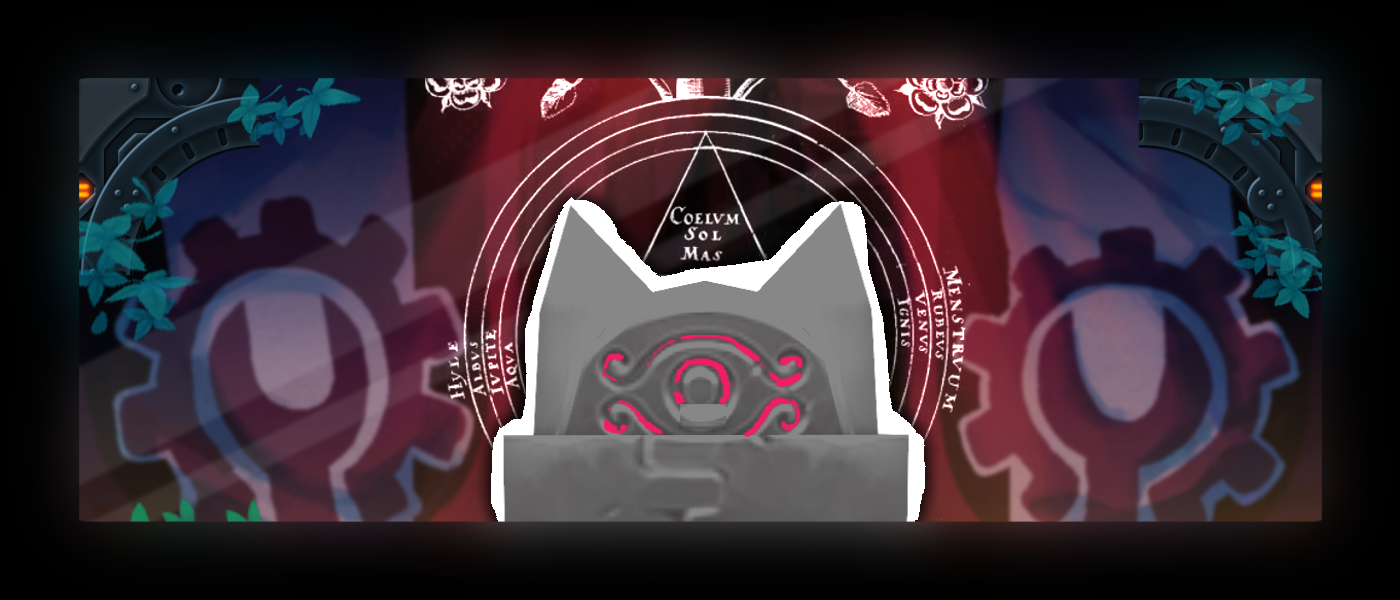
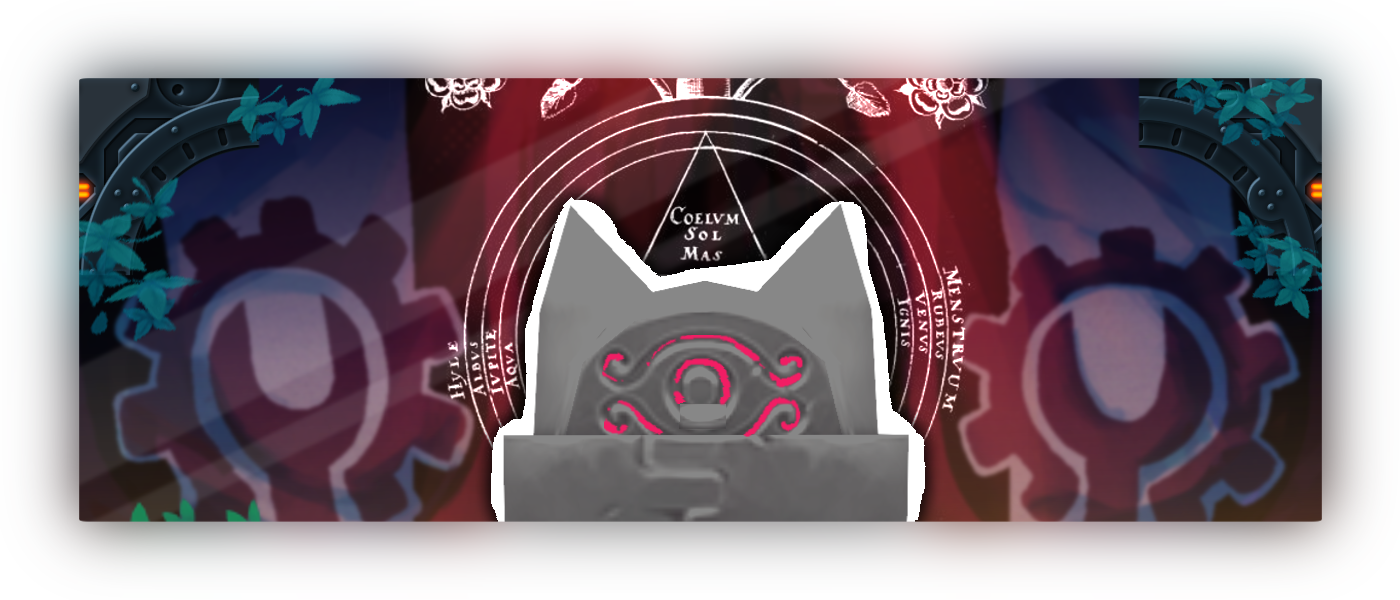
Fixed image transparency

diff --git a/rebis_theory.md b/rebis_theory.md
@@ -9,7 +9,7 @@
 This document is meant to group elements of Spiral Knights' worldbuilding and lore into cohesive narratives within the context of singular timeline of the game while focusing on the main themes and motifs in attempt to achieve narratively satisfying closure for the presented story.
 
 <p align="center">
-  <img src="https://raw.githubusercontent.com/ironkayman/RebisTheory/master/assets/thumbnail_readme_npo_txt.png" alt="thumbnail" style="width: 100%; display: block; margin: auto;"/>
+  <img src="https://raw.githubusercontent.com/ironkayman/RebisTheory/master/assets/thumbnail_readme_no_text.png" alt="thumbnail" style="width: 100%; display: block; margin: auto;"/>
 </p>
 
 ## Preface
